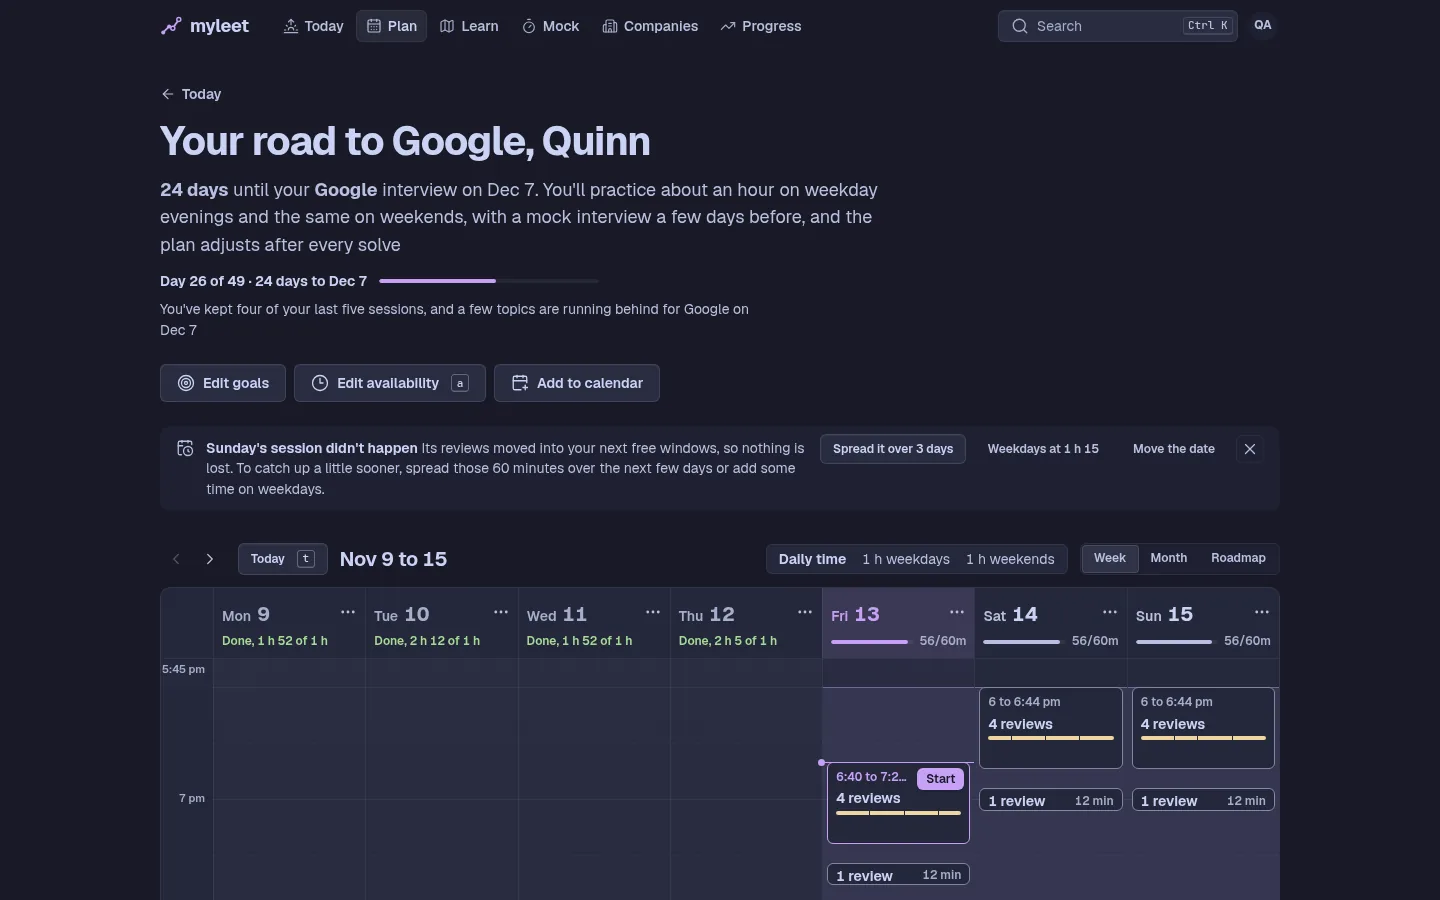
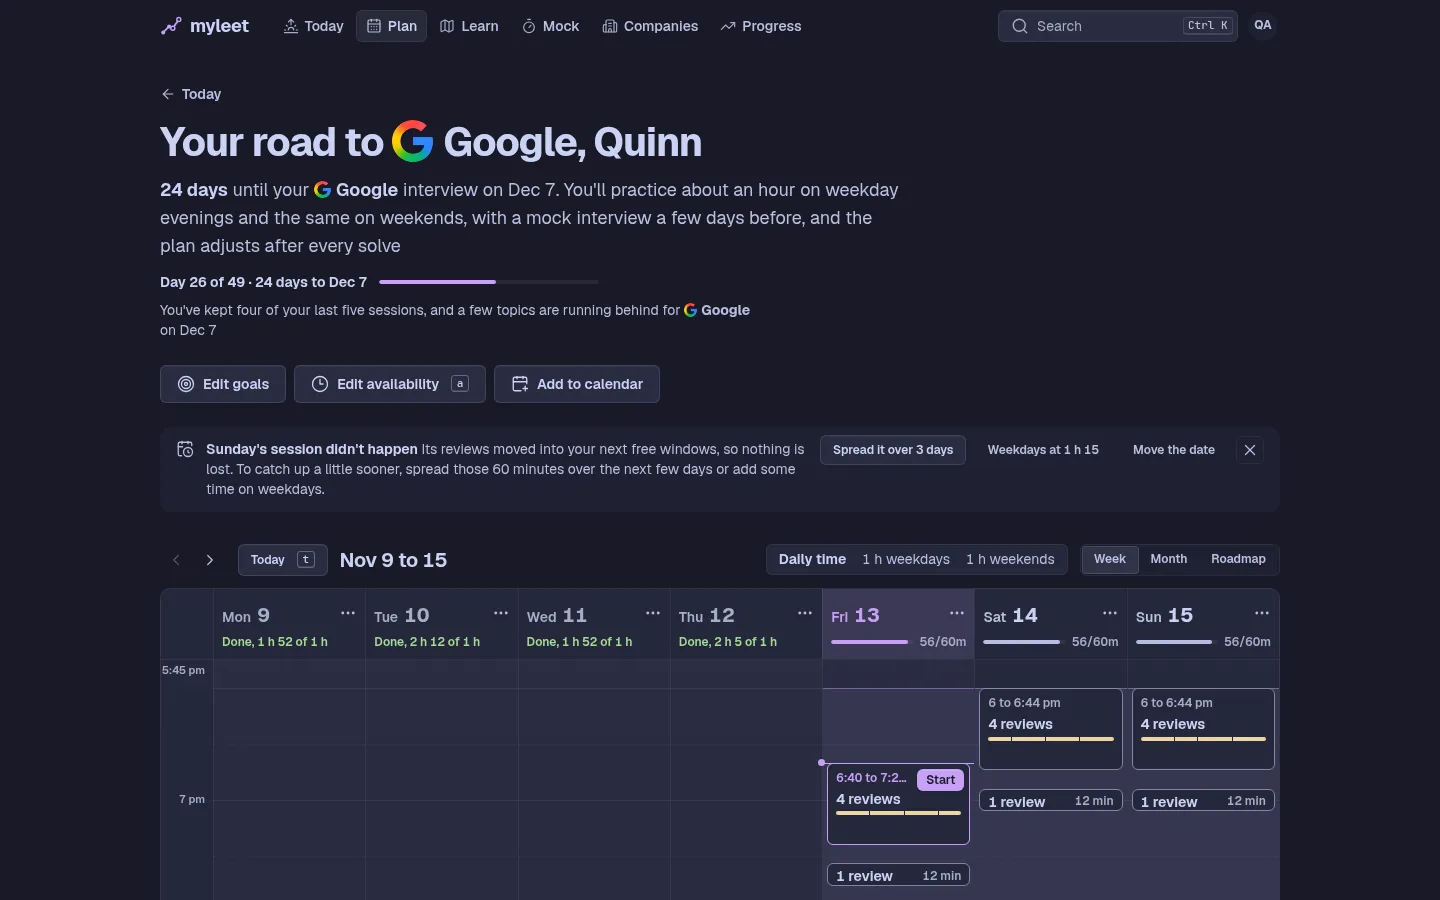
docs(readme): bold the key ideas, fix the mock description, fresh screenshots
Screenshots now show the inline company logos and level labels. Mocks run 25, 45 or 60 minutes with hints hidden.

diff --git a/README.md b/README.md
@@ -66,69 +66,69 @@ around your interview date and free hours, and brings every problem back until y
 
 Most people prepare by working down a list of a few hundred problems once. A problem you solved three weeks ago
 with the editorial open is one you may not be able to start in an interview, and nothing on the list tells you
-which ones those are. The lists are also the same for everyone, so a learner who already knows two pointers
-spends the same days on it as someone who has never seen it. A list also can't tell how you miss: whether you
+which ones those are. The lists are also **the same for everyone**, so a learner who already knows two pointers
+spends the same days on it as someone who has never seen it. A list also can't tell **how you miss**: whether you
 can't start, pick the wrong idea, trip on edge cases or run out of time
 
-myleet keeps that record for you. Every attempt is logged as events (opened, ran the tests, used a hint, passed,
+myleet **keeps that record for you**. Every attempt is logged as events (opened, ran the tests, used a hint, passed,
 gave up), and every page reads its suggestions from that history
 
 ### Personalization
 
-- The diagnostic takes about 15 minutes and needs no account. It starts with eight multiple-choice questions,
+- The **diagnostic** takes about **15 minutes** and needs **no account**. It starts with eight multiple-choice questions,
   each showing a real problem and asking which pattern solves it, then gives you up to three coding problems in
   the normal editor from the patterns you were least sure of. Each pattern comes out strong, shaky or "start
-  here", and the first "start here" pattern becomes the first module of your plan
-- Goals mix freely. You can add interviews (each with a date and, if you know it, the company), dream companies
+  here", and the first "start here" pattern becomes the **first module of your plan**
+- **Goals mix freely**. You can add interviews (each with a date and, if you know it, the company), dream companies
   whose sets the plan works through, focus topics that get extra time, a daily time budget for weekdays and
   weekends, or none of these to just stay sharp
-- The plan walks forward one day at a time to your interview date (or four weeks ahead without one) and places
-  sessions inside the hours you said you are free. Due reviews come first, then mock interviews, check-ins and new
+- The **plan** walks forward **one day at a time** to your interview date (or four weeks ahead without one) and places
+  sessions **inside the hours you said you are free**. **Due reviews come first**, then mock interviews, check-ins and new
   problems. It stops adding new problems in the last two days before an interview. A missed day moves its work
-  into your next free windows, and you can subscribe to the plan from Google, Apple or Outlook calendars
-- Today opens with short coaching notes built from your history, such as "You cleared 7 problems yesterday, 2
+  into your next free windows, and you can subscribe to the plan from **Google, Apple or Outlook calendars**
+- Today opens with short **coaching notes built from your history**, such as "You cleared 7 problems yesterday, 2
   more than planned" or "Sunday's session didn't happen", each with a way to adjust the plan. Each problem says
-  why it was picked ("It came due 18 days ago, and a clean pass puts it one step from mastered")
-- After every submit, the result sheet says what the attempt changed: the problem's new level, how the
+  **why it was picked** ("It came due 18 days ago, and a clean pass puts it one step from mastered")
+- After every submit, the **result sheet** says **what the attempt changed**: the problem's new level, how the
   technique's diagnosis moved, and the next problem to try
 
 ### Learning that sticks
 
-- Every problem you finish sits on one of five review levels. It comes back after 1, 3, 7, 14 and then 30 days,
-  and it counts as mastered at level 4, the 14-day level
-- A level moves up only on a clean pass: every test passes, no hint or solution was opened first, the timer was
-  never restarted, and you finished inside the 25-minute target. A second clean pass on the same day leaves the
-  level alone. Anything else sends the problem back to level 1
-- Once a technique has two or more attempts and a low score, myleet names the most likely cause from how those
+- Every problem you finish sits on one of **five review levels**. It comes back after 1, 3, 7, 14 and then 30 days,
+  and it counts as **mastered at level 4**, the 14-day level
+- A level moves up only on a **clean pass**: every test passes, no hint or solution was opened first, the timer was
+  never restarted, and you finished inside the **25-minute target**. A second clean pass on the same day leaves the
+  level alone. Anything else sends the problem **back to level 1**
+- Once a technique has two or more attempts and a low score, myleet **names the most likely cause** from how those
   attempts went (can't start, wrong approach, edge cases, too slow or forgetting) and suggests a next step that
   fits it, such as "Edge-case drill: Max Area of Island, 25 min"
-- Eighteen modules of notes teach each pattern before the drills. The notes are written to start from the brute
+- **Eighteen modules of notes** teach each pattern **before the drills**. The notes are written to start from the brute
   force and show why it is too slow, trace the technique by hand, and cover what to say out loud
 
 ### Real interview conditions
 
-You write Python in a CodeMirror editor and run it against each problem's pytest file in the browser with
-Pyodide, so there is nothing to install. The timer starts on your first keystroke, and every problem has the same
-25-minute target, about what one problem gets in a live round. Mock interviews give you 45 minutes for one to three
-problems without naming the technique, charge three minutes per hint and end with a self-check on whether you
-could explain your approach and its complexity
+You write Python in a CodeMirror editor and run it against each problem's pytest file **in the browser** with
+Pyodide, so there is **nothing to install**. The timer starts on your first keystroke, and every problem has the same
+**25-minute target**, about what one problem gets in a live round. **Mock interviews** run for **25, 45 or 60 minutes**
+depending on how many problems you take on. They don't name the technique, keep hints hidden during the round
+and end with a self-check on whether you could explain your approach and its complexity
 
 ### Company sets
 
-There are 285 sets across Big Tech, AI and startups, consumer and business tech, trading firms and the
-Fortune 500. Each set covers live coding rounds only, never online assessments or behavioral rounds. The larger
-sets are built from counted candidate reports: the script in [`tools/evidence`](tools/evidence) collects public
+There are **285 sets** across Big Tech, AI and startups, consumer and business tech, trading firms and the
+Fortune 500. Each set covers **live coding rounds only**, never online assessments or behavioral rounds. The larger
+sets are built from **counted candidate reports**: the script in [`tools/evidence`](tools/evidence) collects public
 interview posts from 2024 on and treats a problem as evidenced once at least two separate posts name it (four for
-an easy problem in Big Tech). Each file cites its sources in a comment at the top, prefers United States reports
-and labels the location of any from elsewhere. Sets built on thin evidence say so, for example "Estimate from 6
-candidate reports (medium confidence)". Learners can also mark "I was asked this" on a problem, and a company's
+an easy problem in Big Tech). Each file cites its sources in a comment at the top, prefers **United States reports**
+and labels the location of any from elsewhere. Sets built on thin evidence **say so**, for example "Estimate from 6
+candidate reports (medium confidence)". Learners can also mark **"I was asked this"** on a problem, and a company's
 count shows once three people report the same one
 
 ### Your data
 
-myleet is free and open source under the MIT license. An account keeps your settings and practice events and
-syncs them across devices, and your browser keeps a copy so practice works offline. The optional LeetCode import
-asks only for a username and reads public profile data. It never asks for, or stores, a LeetCode password,
+myleet is **free and open source** under the MIT license. An account keeps your settings and practice events and
+**syncs them across devices**, and your browser keeps a copy so practice works offline. The optional LeetCode import
+asks only for a username and reads **public profile data**. It **never** asks for, or stores, a LeetCode password,
 session or cookie
 
 ### How it compares
@@ -149,24 +149,24 @@ confirm it
 ### Who it's for
 
 myleet is for students heading into internship and co-op interviews, new grads, and anyone with an interview on
-the calendar or a company they want to work at someday. If you have a date, it paces you to it. If you don't, it
-keeps a steady routine of new patterns and reviews
+the calendar or a company they want to work at someday. If you have a date, it **paces you to it**. If you don't, it
+keeps a **steady routine** of new patterns and reviews
 
 ## How it works
 
-1. The diagnostic marks each pattern strong, shaky or "start here" and picks your first module
-2. Your goals (interviews, dream companies, focus topics and daily time) shape a day-by-day plan inside your free
+1. The **diagnostic** marks each pattern strong, shaky or "start here" and picks your first module
+2. Your goals (interviews, dream companies, focus topics and daily time) shape a **day-by-day plan** inside your free
    hours
-3. Today lists due reviews first, most overdue first, then new problems up to your daily number (three unless you
+3. Today lists **due reviews first**, most overdue first, then new problems up to your daily number (three unless you
    change it), with weak techniques ahead of the rest
-4. A clean pass inside the 25-minute target moves a problem up one level, and anything else sends it back to
+4. A **clean pass** inside the **25-minute target** moves a problem up one level, and anything else sends it back to
    level 1
 
 ```text
 Level 1 (1 day) → Level 2 (3 days) → Level 3 (7 days) → Level 4 (14 days, mastered) → Level 5 (30 days)
 ```
 
-A missed review stays due without losing its level, and it waits at the top of Today until you get to it. The full
+A missed review **stays due without losing its level**, and it waits at the top of Today until you get to it. The full
 rules, with a worked example, are on the [How it works](https://myleet.anirudhkonidala.workers.dev/how-it-works)
 page
 
